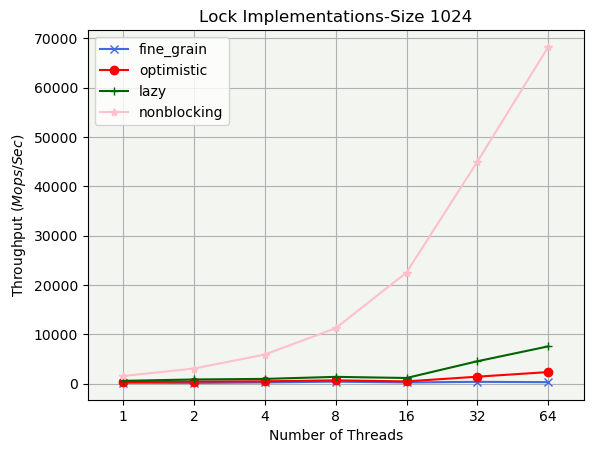
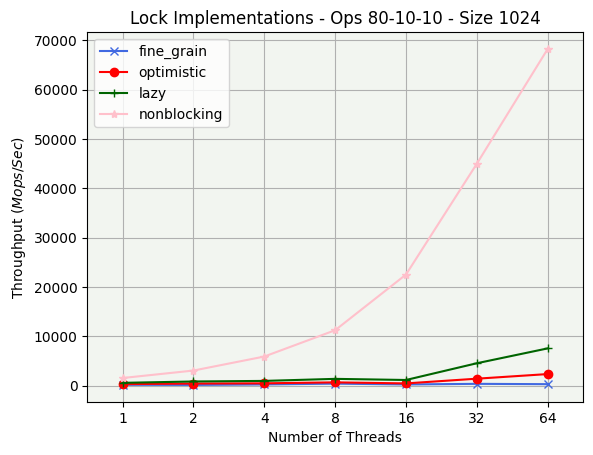
Added title to plots

Changed region(s): [[0.0, 0.0, 1.0, 0.9272], [0.4553, 0.9272, 0.6981, 0.989]]

diff --git a/3rd_exec/src/z3/plot.py b/3rd_exec/src/z3/plot.py
@@ -33,13 +33,13 @@ skip=skip_sizes[size]*skip_s+skip_o*skip_operations[operation]
 with open(sys.argv[1], 'r') as fp:
     # for op,i in skip_operations.items():
     #     for siz,j in skip_sizes.items():
-    #         # print(skip_sizes[siz]*skip_s+skip_o*skip_operations[op]) 
-    for i in range(skip): 
+    #         # print(skip_sizes[siz]*skip_s+skip_o*skip_operations[op])
+    for i in range(skip):
         line = fp.readline()
     line = fp.readline()
     # exit()
     i=0
-    while line:  
+    while line:
         if line.startswith("Nthreads: 1 "):
             if i==len(implementations):
                 break
@@ -49,7 +49,7 @@ with open(sys.argv[1], 'r') as fp:
             throughput = float(line.split(":")[4].split("\n")[0])
             locks[implementation].append(throughput)
         line = fp.readline()
-        
+
 print("locks:",locks)
 
 
@@ -72,5 +72,5 @@ for implementation,throughput in locks.items():
     ax.plot(x_ticks, throughput, label=implementation, color=colors[i%len(colors)], marker=markers[i%len(markers)])
     i+=1
 ax.legend(frameon=True)
-plt.title("Lock Implementations-Size "+str(size))
+plt.title("Lock Implementations - Ops "+operation+" - Size "+str(size))
 plt.savefig("plot_"+operation+"_"+size+".png",bbox_inches="tight")
